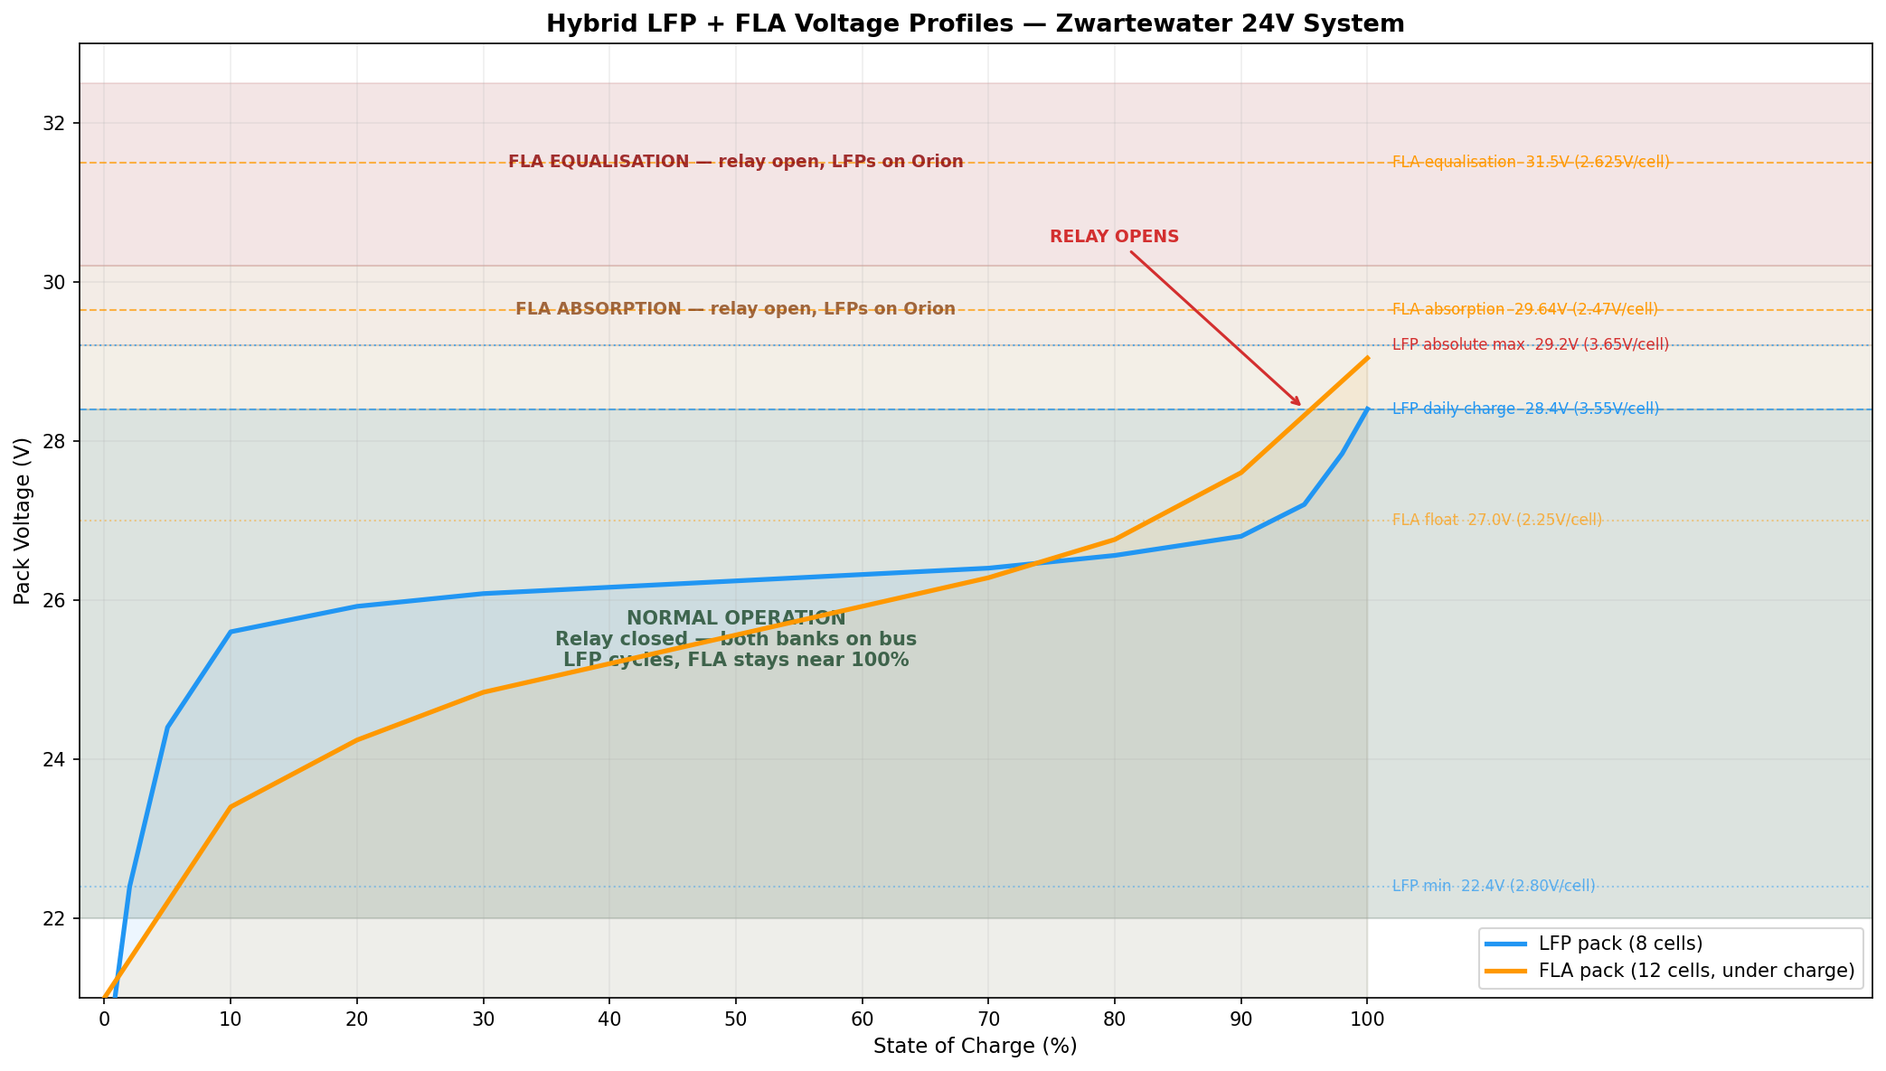
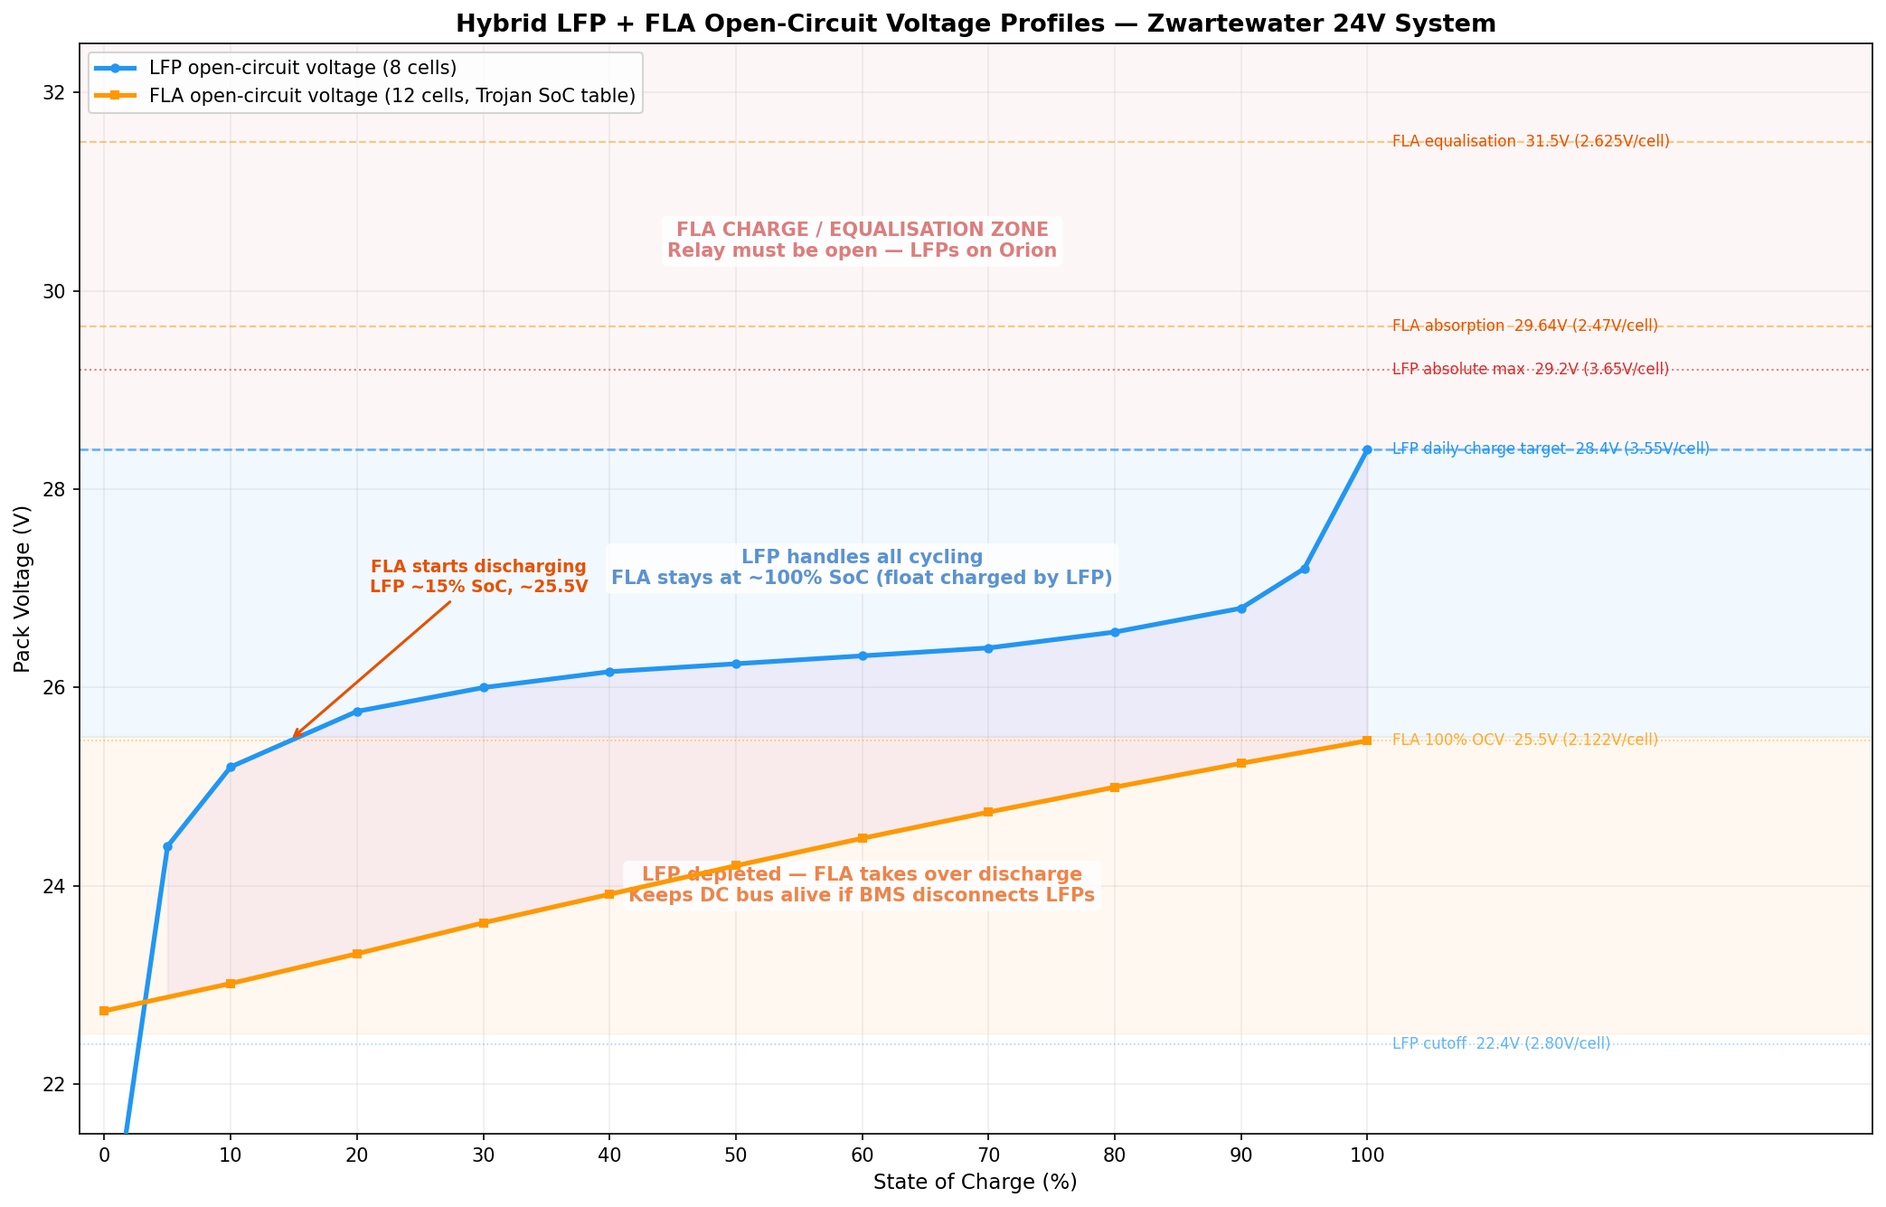
docs: fix voltage diagrams — correct FLA OCV from Trojan SoC table
- Voltage profiles: FLA OCV tops at 25.5V (not 29V), shows crossover
  at ~15% LFP SoC where FLA starts discharging
- Charge sequences: LFP holds steady on Orion, relay closes at delta
  < 1V (not when fully matched), delta annotation added

diff --git a/docs/generate_diagrams.py b/docs/generate_diagrams.py
@@ -8,91 +8,114 @@ import os
 
 OUT_DIR = os.path.dirname(__file__)
 
+# --- Trojan L16H-AC OCV vs SoC (per cell, from Trojan SoC table) ---
+# Standard flooded lead-acid specific gravity / OCV relationship
+TROJAN_SOC =  [0,    10,   20,   30,   40,   50,   60,   70,   80,   90,   100]
+TROJAN_CELL = [1.895, 1.918, 1.943, 1.969, 1.993, 2.017, 2.040, 2.062, 2.083, 2.103, 2.122]
+FLA_CELLS = 12  # 4x 6V batteries, 3 cells each
+
+# --- EVE MB31 LFP OCV vs SoC (per cell, typical LiFePO4 curve) ---
+LFP_SOC =  [0,    5,    10,   20,   30,   40,   50,   60,   70,   80,   90,   95,   100]
+LFP_CELL = [2.50, 3.05, 3.15, 3.22, 3.25, 3.27, 3.28, 3.29, 3.30, 3.32, 3.35, 3.40, 3.55]
+LFP_CELLS = 8
+
 
 def voltage_profile():
-    """Main diagram: hybrid system voltage zones with both battery profiles."""
+    """Main diagram: OCV curves for both chemistries showing the operating zones."""
 
-    fig, ax = plt.subplots(figsize=(14, 8))
+    fig, ax = plt.subplots(figsize=(14, 9))
+
+    # Convert to pack voltages
+    lfp_soc = np.array(LFP_SOC)
+    lfp_pack = np.array(LFP_CELL) * LFP_CELLS
+    fla_soc = np.array(TROJAN_SOC)
+    fla_pack = np.array(TROJAN_CELL) * FLA_CELLS
 
     # --- Zone backgrounds ---
-    # Normal parallel operation (relay closed)
-    ax.axhspan(22, 28.4, color='#1a472a', alpha=0.15, zorder=0)
-    # LFP absolute max zone (danger if relay closed)
-    ax.axhspan(28.4, 29.2, color='#8B6914', alpha=0.10, zorder=0)
-    # FLA absorption zone (relay MUST be open)
-    ax.axhspan(29.2, 30.2, color='#8B4513', alpha=0.10, zorder=0)
-    # FLA equalisation zone (relay MUST be open)
-    ax.axhspan(30.2, 32.5, color='#8B0000', alpha=0.10, zorder=0)
+    # LFP-only discharge zone (bus voltage above FLA OCV)
+    ax.axhspan(25.5, 28.4, color='#2196F3', alpha=0.06, zorder=0)
+    # FLA takeover zone (bus voltage drops to FLA OCV range)
+    ax.axhspan(22.5, 25.5, color='#FF9800', alpha=0.06, zorder=0)
+    # FLA charge voltages (relay must be open)
+    ax.axhspan(28.4, 32.5, color='#d32f2f', alpha=0.04, zorder=0)
 
-    # --- LFP voltage vs SoC curve (8 cells) ---
-    # EVE MB31 typical discharge curve (flat in the middle)
-    lfp_soc = np.array([0, 2, 5, 10, 20, 30, 40, 50, 60, 70, 80, 90, 95, 98, 100])
-    lfp_cell = np.array([2.50, 2.80, 3.05, 3.20, 3.24, 3.26, 3.27, 3.28, 3.29, 3.30, 3.32, 3.35, 3.40, 3.48, 3.55])
-    lfp_pack = lfp_cell * 8
+    # --- Plot OCV curves ---
+    ax.plot(lfp_soc, lfp_pack, color='#2196F3', linewidth=2.5, marker='o', markersize=4,
+            label='LFP open-circuit voltage (8 cells)', zorder=5)
+    ax.plot(fla_soc, fla_pack, color='#FF9800', linewidth=2.5, marker='s', markersize=4,
+            label='FLA open-circuit voltage (12 cells, Trojan SoC table)', zorder=5)
 
-    ax.plot(lfp_soc, lfp_pack, color='#2196F3', linewidth=2.5, label='LFP pack (8 cells)', zorder=5)
-    ax.fill_between(lfp_soc, lfp_pack, alpha=0.08, color='#2196F3', zorder=1)
-
-    # --- FLA voltage vs SoC curve (12 cells) ---
-    # Trojan L16H-AC typical at rest (open-circuit)
-    fla_soc = np.array([0, 10, 20, 30, 40, 50, 60, 70, 80, 90, 100])
-    fla_cell = np.array([1.75, 1.88, 1.95, 2.00, 2.03, 2.06, 2.09, 2.12, 2.15, 2.18, 2.13])
-    # Under charge (higher voltage due to charge acceptance)
-    fla_cell_charge = np.array([1.75, 1.95, 2.02, 2.07, 2.10, 2.13, 2.16, 2.19, 2.23, 2.30, 2.42])
-    fla_pack_charge = fla_cell_charge * 12
-
-    ax.plot(fla_soc, fla_pack_charge, color='#FF9800', linewidth=2.5, label='FLA pack (12 cells, under charge)', zorder=5)
-    ax.fill_between(fla_soc, fla_pack_charge, alpha=0.08, color='#FF9800', zorder=1)
+    # --- Shaded gap between curves ---
+    # Interpolate FLA to LFP SoC points for fill
+    fla_interp = np.interp(lfp_soc, fla_soc, fla_pack)
+    ax.fill_between(lfp_soc, fla_interp, lfp_pack, alpha=0.06, color='#9C27B0',
+                    where=lfp_pack > fla_interp, zorder=1)
 
     # --- Key voltage lines ---
-    ax.axhline(y=28.4, color='#2196F3', linestyle='--', linewidth=1, alpha=0.7)
-    ax.annotate('LFP daily charge  28.4V (3.55V/cell)', xy=(102, 28.4),
-                fontsize=8, color='#2196F3', va='center')
+    ax.axhline(y=28.4, color='#2196F3', linestyle='--', linewidth=1.2, alpha=0.7)
+    ax.annotate('LFP daily charge target  28.4V (3.55V/cell)',
+                xy=(102, 28.4), fontsize=8, color='#2196F3', va='center')
 
-    ax.axhline(y=29.2, color='#2196F3', linestyle=':', linewidth=1, alpha=0.7)
-    ax.annotate('LFP absolute max  29.2V (3.65V/cell)', xy=(102, 29.2),
-                fontsize=8, color='#d32f2f', va='center')
+    ax.axhline(y=29.2, color='#d32f2f', linestyle=':', linewidth=1, alpha=0.6)
+    ax.annotate('LFP absolute max  29.2V (3.65V/cell)',
+                xy=(102, 29.2), fontsize=8, color='#d32f2f', va='center')
 
-    ax.axhline(y=29.64, color='#FF9800', linestyle='--', linewidth=1, alpha=0.7)
-    ax.annotate('FLA absorption  29.64V (2.47V/cell)', xy=(102, 29.64),
-                fontsize=8, color='#FF9800', va='center')
+    ax.axhline(y=29.64, color='#FF9800', linestyle='--', linewidth=1, alpha=0.5)
+    ax.annotate('FLA absorption  29.64V (2.47V/cell)',
+                xy=(102, 29.64), fontsize=8, color='#e65100', va='center')
 
-    ax.axhline(y=31.5, color='#FF9800', linestyle='--', linewidth=1, alpha=0.7)
-    ax.annotate('FLA equalisation  31.5V (2.625V/cell)', xy=(102, 31.5),
-                fontsize=8, color='#FF9800', va='center')
+    ax.axhline(y=31.5, color='#FF9800', linestyle='--', linewidth=1, alpha=0.5)
+    ax.annotate('FLA equalisation  31.5V (2.625V/cell)',
+                xy=(102, 31.5), fontsize=8, color='#e65100', va='center')
 
-    ax.axhline(y=22.4, color='#2196F3', linestyle=':', linewidth=1, alpha=0.4)
-    ax.annotate('LFP min  22.4V (2.80V/cell)', xy=(102, 22.4),
-                fontsize=8, color='#2196F3', alpha=0.7, va='center')
+    ax.axhline(y=22.4, color='#2196F3', linestyle=':', linewidth=0.8, alpha=0.4)
+    ax.annotate('LFP cutoff  22.4V (2.80V/cell)',
+                xy=(102, 22.4), fontsize=8, color='#2196F3', alpha=0.7, va='center')
 
-    ax.axhline(y=27.0, color='#FF9800', linestyle=':', linewidth=1, alpha=0.4)
-    ax.annotate('FLA float  27.0V (2.25V/cell)', xy=(102, 27.0),
-                fontsize=8, color='#FF9800', alpha=0.7, va='center')
+    # --- FLA 100% OCV reference ---
+    fla_100_v = TROJAN_CELL[-1] * FLA_CELLS  # 25.46V
+    ax.axhline(y=fla_100_v, color='#FF9800', linestyle=':', linewidth=0.8, alpha=0.5)
+    ax.annotate(f'FLA 100% OCV  {fla_100_v:.1f}V (2.122V/cell)',
+                xy=(102, fla_100_v), fontsize=8, color='#FF9800', alpha=0.8, va='center')
+
+    # --- Crossover annotation ---
+    # Find where LFP curve crosses FLA 100% OCV
+    lfp_fine = np.linspace(0, 100, 500)
+    lfp_pack_fine = np.interp(lfp_fine, lfp_soc, lfp_pack)
+    cross_idx = np.argmin(np.abs(lfp_pack_fine - fla_100_v))
+    cross_soc = lfp_fine[cross_idx]
+
+    ax.annotate(f'FLA starts discharging\nLFP ~{cross_soc:.0f}% SoC, ~{fla_100_v:.1f}V',
+                xy=(cross_soc, fla_100_v),
+                xytext=(cross_soc + 15, fla_100_v + 1.5),
+                fontsize=9, fontweight='bold', color='#e65100',
+                arrowprops=dict(arrowstyle='->', color='#e65100', lw=1.5),
+                ha='center', zorder=10)
 
     # --- Zone labels ---
-    ax.text(50, 25.5, 'NORMAL OPERATION\nRelay closed — both banks on bus\nLFP cycles, FLA stays near 100%',
-            ha='center', va='center', fontsize=10, color='#1a472a', fontweight='bold', alpha=0.8)
+    ax.text(60, 27.2,
+            'LFP handles all cycling\nFLA stays at ~100% SoC (float charged by LFP)',
+            ha='center', va='center', fontsize=10, color='#1565C0', fontweight='bold', alpha=0.7,
+            bbox=dict(boxstyle='round,pad=0.3', facecolor='white', alpha=0.8, edgecolor='none'))
 
-    ax.text(50, 29.65, 'FLA ABSORPTION — relay open, LFPs on Orion',
-            ha='center', va='center', fontsize=9, color='#8B4513', fontweight='bold', alpha=0.8)
+    ax.text(60, 24.0,
+            'LFP depleted — FLA takes over discharge\nKeeps DC bus alive if BMS disconnects LFPs',
+            ha='center', va='center', fontsize=10, color='#e65100', fontweight='bold', alpha=0.7,
+            bbox=dict(boxstyle='round,pad=0.3', facecolor='white', alpha=0.8, edgecolor='none'))
 
-    ax.text(50, 31.5, 'FLA EQUALISATION — relay open, LFPs on Orion',
-            ha='center', va='center', fontsize=9, color='#8B0000', fontweight='bold', alpha=0.8)
-
-    # --- Relay annotation ---
-    ax.annotate('RELAY OPENS',
-                xy=(95, 28.4), xytext=(80, 30.5),
-                fontsize=9, fontweight='bold', color='#d32f2f',
-                arrowprops=dict(arrowstyle='->', color='#d32f2f', lw=1.5),
-                ha='center')
+    ax.text(60, 30.5,
+            'FLA CHARGE / EQUALISATION ZONE\nRelay must be open — LFPs on Orion',
+            ha='center', va='center', fontsize=10, color='#c62828', fontweight='bold', alpha=0.6,
+            bbox=dict(boxstyle='round,pad=0.3', facecolor='white', alpha=0.8, edgecolor='none'))
 
     # --- Formatting ---
     ax.set_xlim(-2, 140)
-    ax.set_ylim(21, 33)
+    ax.set_ylim(21.5, 32.5)
     ax.set_xlabel('State of Charge (%)', fontsize=11)
     ax.set_ylabel('Pack Voltage (V)', fontsize=11)
-    ax.set_title('Hybrid LFP + FLA Voltage Profiles — Zwartewater 24V System', fontsize=13, fontweight='bold')
-    ax.legend(loc='lower right', fontsize=10)
+    ax.set_title('Hybrid LFP + FLA Open-Circuit Voltage Profiles — Zwartewater 24V System',
+                 fontsize=13, fontweight='bold')
+    ax.legend(loc='upper left', fontsize=10)
     ax.grid(True, alpha=0.2)
     ax.set_xticks(range(0, 101, 10))
 
@@ -106,53 +129,41 @@ def voltage_profile():
 def charge_sequence():
     """Diagram: FLA charge/EQ sequence showing voltage over time."""
 
-    fig, (ax1, ax2) = plt.subplots(2, 1, figsize=(14, 10), sharex=True)
+    fig, (ax1, ax2) = plt.subplots(2, 1, figsize=(14, 10), sharex=False)
 
     # --- FLA Charge Sequence (top) ---
-    # Time segments (hours)
-    t_phase1 = np.linspace(0, 4, 50)       # Phase 1: shared charging
-    t_disconnect = np.array([4, 4.1])       # Relay opens
-    t_phase23 = np.linspace(4.1, 8, 50)    # Phase 2-3: FLA absorption
-    t_float = np.linspace(8, 9, 20)        # Float reduction
-    t_match = np.linspace(9, 12, 40)       # Voltage matching
-    t_reconnect = np.array([12, 12.1])      # Relay closes
-    t_normal = np.linspace(12.1, 13, 10)   # Normal operation
+    t_phase1 = np.linspace(0, 4, 50)
+    t_disconnect = np.array([4, 4.1])
+    t_phase23 = np.linspace(4.1, 8, 50)
+    t_float = np.linspace(8, 9, 20)
+    t_match = np.linspace(9, 12, 40)
+    t_reconnect = np.array([12, 12.1])
+    t_normal = np.linspace(12.1, 13, 10)
 
-    # Bus voltage (what Quattro charges to)
-    bus_p1 = 26.0 + (28.4 - 26.0) * (1 - np.exp(-t_phase1 / 1.5))
-    bus_disc = np.array([28.4, 28.4])
-    bus_p23 = 28.4 + (29.64 - 28.4) * (1 - np.exp(-(t_phase23 - 4.1) / 0.3))
-    bus_float = 29.64 - (29.64 - 27.0) * np.linspace(0, 1, 20)
-    bus_match = 27.0 * np.ones(40) - 0.3 * np.exp(-np.linspace(0, 5, 40))
-    bus_recon = np.array([26.7, 26.8])
-    bus_norm = 26.8 * np.ones(10)
-
-    # Trojan voltage (follows bus when connected, IS the bus in phase 2-3)
-    trojan_p1 = bus_p1
-    trojan_disc = bus_disc
-    trojan_p23 = bus_p23
-    trojan_float = bus_float
-    trojan_match = bus_match
-    trojan_recon = bus_recon
-    trojan_norm = bus_norm
+    # Trojan voltage (bus voltage during charge)
+    trojan_p1 = 25.5 + (28.4 - 25.5) * (1 - np.exp(-t_phase1 / 1.5))
+    trojan_disc = np.array([28.4, 28.4])
+    trojan_p23 = 28.4 + (29.64 - 28.4) * (1 - np.exp(-(t_phase23 - 4.1) / 0.3))
+    trojan_float = 29.64 - (29.64 - 27.0) * np.linspace(0, 1, 20)
+    trojan_match = 27.0 - 0.3 * (1 - np.exp(-np.linspace(0, 4, 40)))  # Settling toward ~26.7
+    trojan_recon = np.array([26.7, 26.7])
+    trojan_norm = 26.7 * np.ones(10)
 
     # LFP voltage
-    lfp_p1 = bus_p1  # Same as bus (parallel)
-    lfp_disc = np.array([28.4, 27.5])  # Drops to Orion voltage
-    lfp_p23 = 27.5 - 0.3 * np.exp(-np.linspace(0, 3, 50)) + 0.3  # Orion holds ~27.2-27.5V
-    lfp_float = np.linspace(27.2, 27.0, 20)
-    lfp_match = 27.0 * np.ones(40) - 0.1 * np.exp(-np.linspace(0, 5, 40))  # Converging
-    lfp_recon = np.array([26.9, 26.8])
-    lfp_norm = 26.8 * np.ones(10)
+    lfp_p1 = trojan_p1  # Same as bus (parallel)
+    lfp_disc = np.array([28.4, 27.2])  # Drops to Orion voltage
+    lfp_p23 = 27.2 * np.ones(50)  # Orion holds ~27.2V steady
+    lfp_float = 27.2 * np.ones(20)  # LFP stays on Orion, voltage steady
+    lfp_match = 27.2 - 1.0 * (1 - np.exp(-np.linspace(0, 2.5, 40)))  # Orion off, LFP settles
+    lfp_recon = np.array([26.2, 26.7])  # Jumps to bus voltage on reconnect
+    lfp_norm = 26.7 * np.ones(10)
 
-    # Plot Trojan
     for t, v in [(t_phase1, trojan_p1), (t_disconnect, trojan_disc), (t_phase23, trojan_p23),
                  (t_float, trojan_float), (t_match, trojan_match), (t_reconnect, trojan_recon),
                  (t_normal, trojan_norm)]:
         ax1.plot(t, v, color='#FF9800', linewidth=2)
-    ax1.plot([], [], color='#FF9800', linewidth=2, label='Trojan FLA')
+    ax1.plot([], [], color='#FF9800', linewidth=2, label='Trojan FLA (bus voltage)')
 
-    # Plot LFP
     for t, v in [(t_phase1, lfp_p1), (t_disconnect, lfp_disc), (t_phase23, lfp_p23),
                  (t_float, lfp_float), (t_match, lfp_match), (t_reconnect, lfp_recon),
                  (t_normal, lfp_norm)]:
@@ -166,27 +177,32 @@ def charge_sequence():
     ax1.axvspan(9, 12, color='#4a148c', alpha=0.05)
     ax1.axvspan(12, 13, color='#1a472a', alpha=0.08)
 
-    # Phase labels
-    ax1.text(2, 30.5, 'Phase 1\nShared\ncharging', ha='center', fontsize=9, color='#1a472a', fontweight='bold')
-    ax1.text(6, 30.5, 'Phase 2-3\nFLA absorption\n29.64V', ha='center', fontsize=9, color='#8B4513', fontweight='bold')
+    ax1.text(2, 30.5, 'Phase 1\nShared charging\n(both on bus)', ha='center', fontsize=9,
+             color='#1a472a', fontweight='bold')
+    ax1.text(6, 30.5, 'Phase 2-3\nFLA absorption\n29.64V', ha='center', fontsize=9,
+             color='#8B4513', fontweight='bold')
     ax1.text(8.5, 30.5, 'Float\n27V', ha='center', fontsize=9, color='#8B6914', fontweight='bold')
     ax1.text(10.5, 30.5, 'Voltage\nmatching', ha='center', fontsize=9, color='#4a148c', fontweight='bold')
     ax1.text(12.5, 30.5, 'Normal', ha='center', fontsize=9, color='#1a472a', fontweight='bold')
 
-    # Relay markers
     ax1.axvline(x=4, color='#d32f2f', linestyle='--', linewidth=1.5, alpha=0.7)
     ax1.text(4, 31.2, 'RELAY\nOPENS', ha='center', fontsize=8, color='#d32f2f', fontweight='bold')
     ax1.axvline(x=12, color='#2e7d32', linestyle='--', linewidth=1.5, alpha=0.7)
-    ax1.text(12, 31.2, 'RELAY\nCLOSES', ha='center', fontsize=8, color='#2e7d32', fontweight='bold')
+    ax1.text(12, 31.2, 'RELAY CLOSES\n(delta < 1V)', ha='center', fontsize=8,
+             color='#2e7d32', fontweight='bold')
 
-    # LFP safe line
+    # Show delta < 1V at reconnect
+    ax1.annotate('', xy=(12, 26.7), xytext=(12, 26.2),
+                 arrowprops=dict(arrowstyle='<->', color='#2e7d32', lw=1.5))
+    ax1.text(12.3, 26.45, '<1V', fontsize=8, color='#2e7d32', fontweight='bold')
+
     ax1.axhline(y=28.4, color='#2196F3', linestyle=':', linewidth=0.8, alpha=0.5)
-    ax1.annotate('LFP max 28.4V', xy=(0.2, 28.55), fontsize=7, color='#2196F3', alpha=0.7)
+    ax1.annotate('LFP safe max 28.4V', xy=(0.2, 28.55), fontsize=7, color='#2196F3', alpha=0.7)
 
     ax1.set_ylabel('Voltage (V)', fontsize=11)
-    ax1.set_ylim(25.5, 31.5)
-    ax1.set_title('FLA Charge Sequence', fontsize=12, fontweight='bold')
-    ax1.legend(loc='lower right', fontsize=9)
+    ax1.set_ylim(25, 31.5)
+    ax1.set_title('FLA Charge Sequence (Trojan SoC < 85%)', fontsize=12, fontweight='bold')
+    ax1.legend(loc='center right', fontsize=9)
     ax1.grid(True, alpha=0.2)
 
     # --- FLA Equalisation Sequence (bottom) ---
@@ -197,57 +213,64 @@ def charge_sequence():
     t_eq_recon = np.array([6, 6.1])
     t_eq_norm = np.linspace(6.1, 7, 10)
 
-    # Trojan during EQ
     trojan_start = np.array([28.4, 28.4])
     trojan_eq = 28.4 + (31.5 - 28.4) * (1 - np.exp(-(t_eq - 0.1) / 0.5))
     trojan_eq_float = 31.5 - (31.5 - 27.0) * np.linspace(0, 1, 20)
-    trojan_eq_match = 27.0 * np.ones(40) - 0.3 * np.exp(-np.linspace(0, 5, 40))
-    trojan_eq_recon = np.array([26.7, 26.8])
-    trojan_eq_norm = 26.8 * np.ones(10)
+    trojan_eq_match = 27.0 - 0.3 * (1 - np.exp(-np.linspace(0, 4, 40)))  # Settling toward ~26.7
+    trojan_eq_recon = np.array([26.7, 26.7])
+    trojan_eq_norm = 26.7 * np.ones(10)
 
-    # LFP during EQ (on Orion the whole time)
-    lfp_start = np.array([28.4, 27.5])
-    lfp_eq = 27.5 - 0.2 * np.exp(-np.linspace(0, 3, 50)) + 0.2
-    lfp_eq_float = np.linspace(27.3, 27.0, 20)
-    lfp_eq_match = 27.0 * np.ones(40) - 0.1 * np.exp(-np.linspace(0, 5, 40))
-    lfp_eq_recon = np.array([26.9, 26.8])
-    lfp_eq_norm = 26.8 * np.ones(10)
+    lfp_start = np.array([28.4, 27.2])
+    lfp_eq = 27.2 * np.ones(50)  # Orion holds steady
+    lfp_eq_float = 27.2 * np.ones(20)  # Still on Orion, steady
+    lfp_eq_match = 27.2 - 1.0 * (1 - np.exp(-np.linspace(0, 2.5, 40)))  # Orion off, settling
+    lfp_eq_recon = np.array([26.2, 26.7])  # Jumps to bus on reconnect
+    lfp_eq_norm = 26.7 * np.ones(10)
 
     for t, v in [(t_eq_start, trojan_start), (t_eq, trojan_eq), (t_eq_float, trojan_eq_float),
-                 (t_eq_match, trojan_eq_match), (t_eq_recon, trojan_eq_recon), (t_eq_norm, trojan_eq_norm)]:
+                 (t_eq_match, trojan_eq_match), (t_eq_recon, trojan_eq_recon),
+                 (t_eq_norm, trojan_eq_norm)]:
         ax2.plot(t, v, color='#FF9800', linewidth=2)
-    ax2.plot([], [], color='#FF9800', linewidth=2, label='Trojan FLA')
+    ax2.plot([], [], color='#FF9800', linewidth=2, label='Trojan FLA (bus voltage)')
 
     for t, v in [(t_eq_start, lfp_start), (t_eq, lfp_eq), (t_eq_float, lfp_eq_float),
-                 (t_eq_match, lfp_eq_match), (t_eq_recon, lfp_eq_recon), (t_eq_norm, lfp_eq_norm)]:
+                 (t_eq_match, lfp_eq_match), (t_eq_recon, lfp_eq_recon),
+                 (t_eq_norm, lfp_eq_norm)]:
         ax2.plot(t, v, color='#2196F3', linewidth=2)
     ax2.plot([], [], color='#2196F3', linewidth=2, label='LFP (on Orion)')
 
-    # Phase backgrounds
     ax2.axvspan(0, 0.1, color='#d32f2f', alpha=0.08)
     ax2.axvspan(0.1, 2.5, color='#8B0000', alpha=0.08)
     ax2.axvspan(2.5, 3, color='#FFD700', alpha=0.08)
     ax2.axvspan(3, 6, color='#4a148c', alpha=0.05)
     ax2.axvspan(6, 7, color='#1a472a', alpha=0.08)
 
-    ax2.text(1.3, 32.5, 'Equalisation\n31.5V', ha='center', fontsize=9, color='#8B0000', fontweight='bold')
+    ax2.text(1.3, 32.5, 'Equalisation\n31.5V (2.625V/cell)', ha='center', fontsize=9,
+             color='#8B0000', fontweight='bold')
     ax2.text(2.75, 32.5, 'Float\n27V', ha='center', fontsize=9, color='#8B6914', fontweight='bold')
-    ax2.text(4.5, 32.5, 'Voltage matching', ha='center', fontsize=9, color='#4a148c', fontweight='bold')
+    ax2.text(4.5, 32.5, 'Voltage matching', ha='center', fontsize=9,
+             color='#4a148c', fontweight='bold')
     ax2.text(6.5, 32.5, 'Normal', ha='center', fontsize=9, color='#1a472a', fontweight='bold')
 
     ax2.axvline(x=0, color='#d32f2f', linestyle='--', linewidth=1.5, alpha=0.7)
     ax2.text(0, 33.2, 'RELAY\nOPENS', ha='center', fontsize=8, color='#d32f2f', fontweight='bold')
     ax2.axvline(x=6, color='#2e7d32', linestyle='--', linewidth=1.5, alpha=0.7)
-    ax2.text(6, 33.2, 'RELAY\nCLOSES', ha='center', fontsize=8, color='#2e7d32', fontweight='bold')
+    ax2.text(6, 33.2, 'RELAY CLOSES\n(delta < 1V)', ha='center', fontsize=8,
+             color='#2e7d32', fontweight='bold')
+
+    # Show delta < 1V at reconnect
+    ax2.annotate('', xy=(6, 26.7), xytext=(6, 26.2),
+                 arrowprops=dict(arrowstyle='<->', color='#2e7d32', lw=1.5))
+    ax2.text(6.3, 26.45, '<1V', fontsize=8, color='#2e7d32', fontweight='bold')
 
     ax2.axhline(y=28.4, color='#2196F3', linestyle=':', linewidth=0.8, alpha=0.5)
-    ax2.annotate('LFP max 28.4V', xy=(0.2, 28.55), fontsize=7, color='#2196F3', alpha=0.7)
+    ax2.annotate('LFP safe max 28.4V', xy=(0.2, 28.55), fontsize=7, color='#2196F3', alpha=0.7)
 
     ax2.set_xlabel('Time (hours)', fontsize=11)
     ax2.set_ylabel('Voltage (V)', fontsize=11)
-    ax2.set_ylim(25.5, 33.5)
-    ax2.set_title('FLA Equalisation Sequence', fontsize=12, fontweight='bold')
-    ax2.legend(loc='lower right', fontsize=9)
+    ax2.set_ylim(25, 33.5)
+    ax2.set_title('FLA Equalisation Sequence (every 90 days)', fontsize=12, fontweight='bold')
+    ax2.legend(loc='center right', fontsize=9)
     ax2.grid(True, alpha=0.2)
 
     plt.tight_layout()
